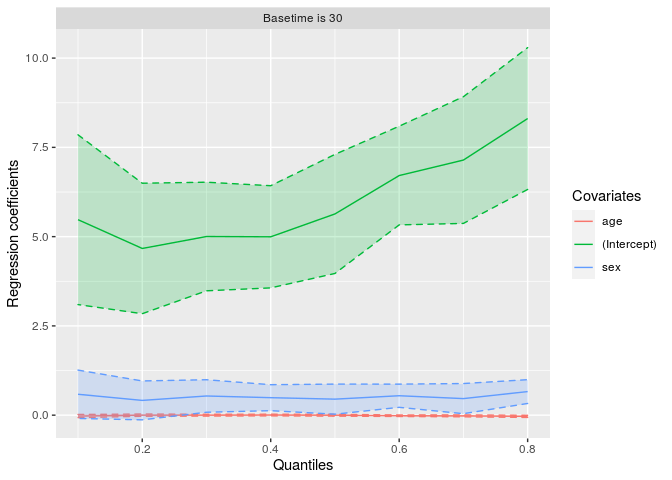
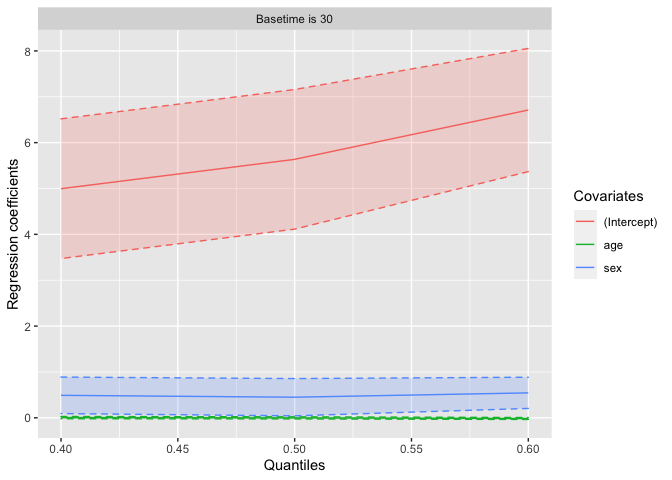
change to light examples

diff --git a/README.md b/README.md
@@ -124,7 +124,7 @@ Signif. codes:  0 '***' 0.001 '**' 0.01 '*' 0.05 '.' 0.1 ' ' 1
 (Intercept)  0.006166542 -0.006948767
 X           -0.006948767  0.015944839
 > 
-> plot(fit1)
+> plot(fit1, Qs = 4:6 / 10)
 ```
 
 ![](README_files/figure-gfm/example-1.png)<!-- -->
@@ -152,9 +152,9 @@ qris(formula = fm, data = lung2, t0 = 0, Q = 0.5, ne = 200, method = "iterative"
 
 qris Estimator
             estimate std.Error z.value p.value    
-(Intercept)   6.1730    0.6035  10.228  <2e-16 ***
-age          -0.0095    0.0091  -1.038  0.2991    
-sex           0.4885    0.1646   2.967  0.0030 ** 
+(Intercept)   6.1747    0.7032   8.781  <2e-16 ***
+age          -0.0095    0.0108  -0.880  0.3790    
+sex           0.4873    0.1675   2.909  0.0036 ** 
 ---
 Signif. codes:  0 '***' 0.001 '**' 0.01 '*' 0.05 '.' 0.1 ' ' 1
 > summary(fit2)
@@ -164,9 +164,9 @@ qris(formula = fm, data = lung2, t0 = 30, Q = 0.5, ne = 200,
 
 qris Estimator
             estimate std.Error z.value p.value    
-(Intercept)   5.6362    0.9262   6.085  <2e-16 ***
-age          -0.0015    0.0142  -0.103  0.9183    
-sex           0.4489    0.2089   2.148  0.0317 *  
+(Intercept)   5.6362    0.8650   6.516  <2e-16 ***
+age          -0.0015    0.0132  -0.110  0.9122    
+sex           0.4489    0.2175   2.064  0.0390 *  
 ---
 Signif. codes:  0 '***' 0.001 '**' 0.01 '*' 0.05 '.' 0.1 ' ' 1
 > summary(fit3)
@@ -176,18 +176,21 @@ qris(formula = fm, data = lung2, t0 = 100, Q = 0.5, ne = 200,
 
 qris Estimator
             estimate std.Error z.value p.value    
-(Intercept)   8.6285    2.3845   3.619  0.0003 ***
-age          -0.0601    0.0377  -1.596  0.1104    
-sex           1.8121    0.7050   2.570  0.0102 *  
+(Intercept)   8.6285    2.6138   3.301  0.0010 ***
+age          -0.0601    0.0416  -1.446  0.1481    
+sex           1.8121    0.6657   2.722  0.0065 ** 
 ---
 Signif. codes:  0 '***' 0.001 '**' 0.01 '*' 0.05 '.' 0.1 ' ' 1
 > 
-> plot(fit2)
+> plot(fit2, Qs = 4:6 / 10)
 ```
 
 ![](README_files/figure-gfm/example2-1.png)<!-- -->
 
 ## Reference
+
+Kim, K., and Kang, S., (2022). Smoothed quantile regression for censored
+residual life.
 
 Chiou, S., Kang, S., and Yan, J. (2014). Fitting accelerated failure
 time model in routine survival analysis with R package aftgee. *Journal
